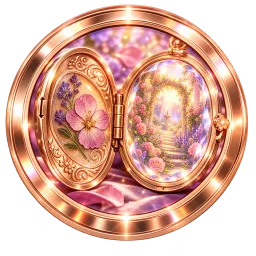
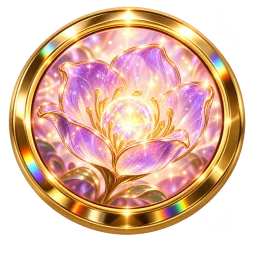
Medals update

diff --git a/sw.js b/sw.js
@@ -285,7 +285,7 @@ const CURRENT_CACHES = {
   // Ready Pass 1: score-card Booha line style (theme/game.css).
   // Trophy token refresh: replace the older character/duplicate trophy centers
   // with the shared photorealistic round-token set.
-  assets: 'booha-assets-2026-607',
+  assets: 'booha-assets-2026-608',
   // Utsuroba episodes gained vocabulary (8 words per memory per level).
   decks:  'booha-decks-2026-315',
 };
